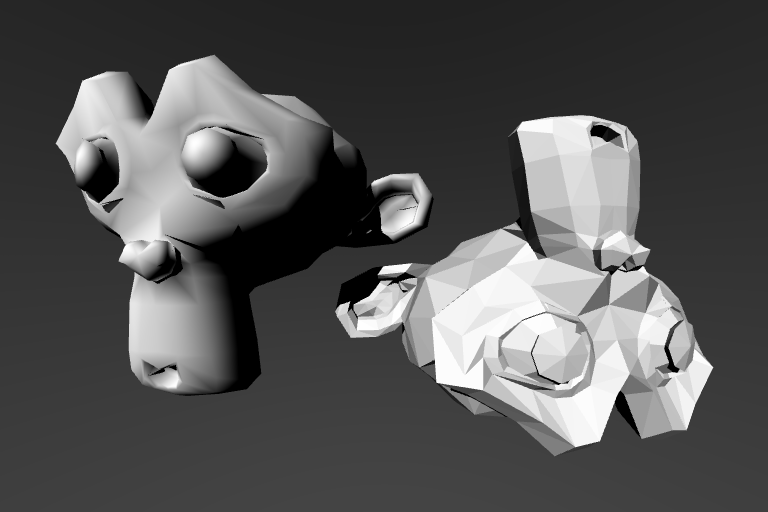
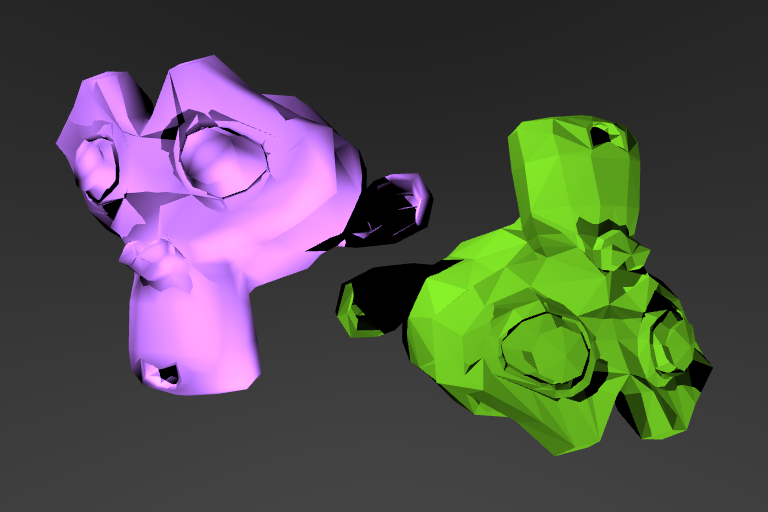
Wed Mar 26 12:51:54 CET 2025

diff --git a/src/synthese.cpp b/src/synthese.cpp
@@ -37,10 +37,10 @@ Scene scene2() {
 
     /* ---- Lights ---- */
     {
-        float radius = 5.0f;
+        float radius = 2.0f;
         // scene.add(new PointLight(Red(), Point(0.0f, 0.01f, -3.0f), radius));
-        scene.add(new PointLight(Green(), Point(2.0f, 0.01f, -3.0f), radius));
-        scene.add(new PointLight(Blue(), Point(-2.0f, 0.01f, -3.0f), radius));
+        scene.add(new PointLight(Green(), Point(2.0f, 1.0f, -1.0f), radius));
+        scene.add(new PointLight(Blue(), Point(-2.0f, 1.0f, -1.0f), radius));
     }
 
     /* ---- Objects ---- */
@@ -139,13 +139,15 @@ Scene scene6() {
     scene.setDarkSkyColor(0.1f, 0.1f, 0.1f);
 
     /* ---- Lights ---- */
-    scene.add(new DirectionalLight(Color(1.0f, 1.0f, 1.0f), Vector(-4.0f, 6.0f, 10.0f)));
+    // scene.add(new DirectionalLight(Color(1.0f, 1.0f, 1.0f), Vector(-4.0f, 6.0f, 10.0f)));
+    scene.add(new PointLight(White(), Point(-2.0f, 2.0f, 0.0f), 2.0f));
+    scene.add(new PointLight(White(), Point(2.0f, -2.0f, 0.0f), 2.0f));
 
     /* ---- Objects ---- */
     MeshIOData suzanne;
     read_meshio_data("data/synthese/suzanne.obj", suzanne);
-    scene.add(suzanne, translate(-1.0f, 0.2f, -2.0f).rotateY(-10.0f), White(), true);
-    scene.add(suzanne, translate(1.0f, -0.2f, -2.0f).rotateY(10.0f).rotateZ(180.0f), White(), false);
+    scene.add(suzanne, translate(-1.0f, 0.2f, -2.0f).rotateY(-10.0f), Color(0.678f, 0.424f, 0.902f), true);
+    scene.add(suzanne, translate(1.0f, -0.2f, -2.0f).rotateY(10.0f).rotateZ(180.0f), Color(0.322f, 0.576f, 0.098f), false);
 
     return scene;
 }
@@ -153,11 +155,11 @@ Scene scene6() {
 int main() {
     try {
         // scene1().render("data/synthese/scene1.png", 1024, 512);
-        // scene2().render("data/synthese/scene2.png", 1024, 512);
+        scene2().render("data/synthese/scene2.png", 1024, 512);
         // scene3().render("data/synthese/scene3.png", 1024, 512);
         // scene4().render("data/synthese/scene4.png", 1024, 512);
         // scene5().render("data/synthese/scene5.png", 1024, 512);
-        scene6().render("data/synthese/scene6.png", 768, 512);
+        // scene6().render("data/synthese/scene6.png", 768, 512);
     } catch(const std::exception& exception) {
         std::cerr << "ERROR : " << exception.what() << '\n';
         return -1;

diff --git a/src/synthese/Light.cpp b/src/synthese/Light.cpp
@@ -32,12 +32,12 @@ PointLight::PointLight(const Color& color, const Point& position, float radius)
 
 Color PointLight::calculate(const Hit& hit, const Point& point, const std::vector<const Object*>& objects) const {
     Ray ray(point, position - point);
-    float distance = length(ray.direction);
-    ray.direction = ray.direction / distance;
+    float distance2 = length(ray.direction);
+    ray.direction = ray.direction / std::sqrt(distance2);
 
     if(isInShadow(hit.object, ray, objects)) { return Black(); }
 
-    float attenuation = std::max(radius * radius / (distance * distance), 0.0f);
+    float attenuation = std::clamp(radius * radius / (1.0f + distance2), 0.0f, 1.0f);
     float cos_theta = std::max(dot(hit.normal, ray.direction), 0.0f);
 
     return color * attenuation * cos_theta;
